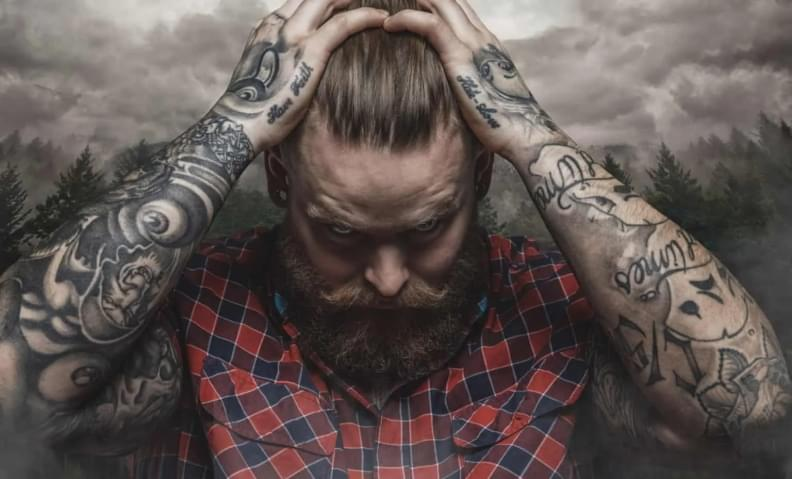
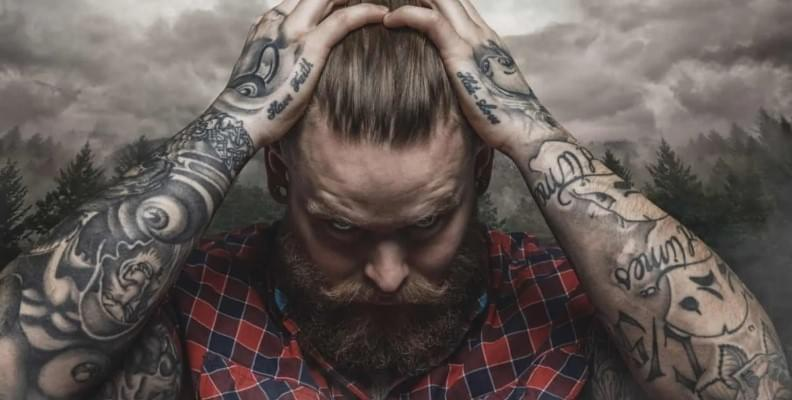
Added and optimized blog images for all devices

diff --git a/index.html b/index.html
@@ -999,7 +999,15 @@
               </li><!-- /.articles__item -->
 
               <li class="articles__item" data-aos="fade-in" data-aos-delay="200">
-                <img class="articles__image" src="assets/images/blog/blog3.jpg" width="262" height="153" alt="Фото бритого мужского затылка с яркой татуировкой на голове и шее.">
+                <picture>
+                  <source type="image/webp" media="(min-width: 999px)" srcset="assets/images/blog/blog-3-desktop.webp 1x, assets/images/blog/blog-3-desktop@2x.webp 2x">
+                  <source type="image/webp" media="(min-width: 600px)" srcset="assets/images/blog/blog-3-tablet.webp 1x, assets/images/blog/blog-3-tablet@2x.webp 2x">
+                  <source type="image/webp" srcset="assets/images/blog/blog-3-mobile.webp 1x, assets/images/blog/blog-3-mobile@2x.webp 2x">
+                  <source media="(min-width: 999px)" srcset="assets/images/blog/blog-3-desktop.jpg 1x, assets/images/blog/blog-3-desktop@2x.jpg 2x">
+                  <source media="(min-width: 600px)" srcset="assets/images/blog/blog-3-tablet.jpg 1x, assets/images/blog/blog-3-tablet@2x.jpg 2x">
+                  <img class="articles__image" src="assets/images/blog/blog-3-mobile.jpg" srcset="assets/images/blog/blog-3-mobile@2x.jpg 2x" width="396" height="200" alt="Фото бритого мужского затылка с яркой татуировкой на голове и шее.">
+                </picture>
+
                 <div class="articles__content">
                   <div class="articles__data">
                     <time class="articles__date" datetime="2023-06-13 19:00">13 июня, 2023</time>
@@ -1028,7 +1036,15 @@
               </li><!-- /.articles__item -->
 
               <li class="articles__item" data-aos="fade-in" data-aos-delay="300">
-                <img class="articles__image" src="assets/images/blog/blog4.jpg" width="262" height="153" alt="Фото бородатого мужчины с татуированными руками, обхватившего руками голову.">
+                <picture>
+                  <source type="image/webp" media="(min-width: 999px)" srcset="assets/images/blog/blog-4-desktop.webp 1x, assets/images/blog/blog-4-desktop@2x.webp 2x">
+                  <source type="image/webp" media="(min-width: 600px)" srcset="assets/images/blog/blog-4-tablet.webp 1x, assets/images/blog/blog-4-tablet@2x.webp 2x">
+                  <source type="image/webp" srcset="assets/images/blog/blog-4-mobile.webp 1x, assets/images/blog/blog-4-mobile@2x.webp 2x">
+                  <source media="(min-width: 999px)" srcset="assets/images/blog/blog-4-desktop.jpg 1x, assets/images/blog/blog-4-desktop@2x.jpg 2x">
+                  <source media="(min-width: 600px)" srcset="assets/images/blog/blog-4-tablet.jpg 1x, assets/images/blog/blog-4-tablet@2x.jpg 2x">
+                  <img class="articles__image" src="assets/images/blog/blog-4-mobile.jpg" srcset="assets/images/blog/blog-4-mobile@2x.jpg 2x" width="396" height="200" alt="Фото бородатого мужчины с татуированными руками, обхватившего руками голову.">
+                </picture>
+                
                 <div class="articles__content">
                   <div class="articles__data">
                     <time class="articles__date" datetime="2023-05-21 19:00">21 мая, 2023</time>
